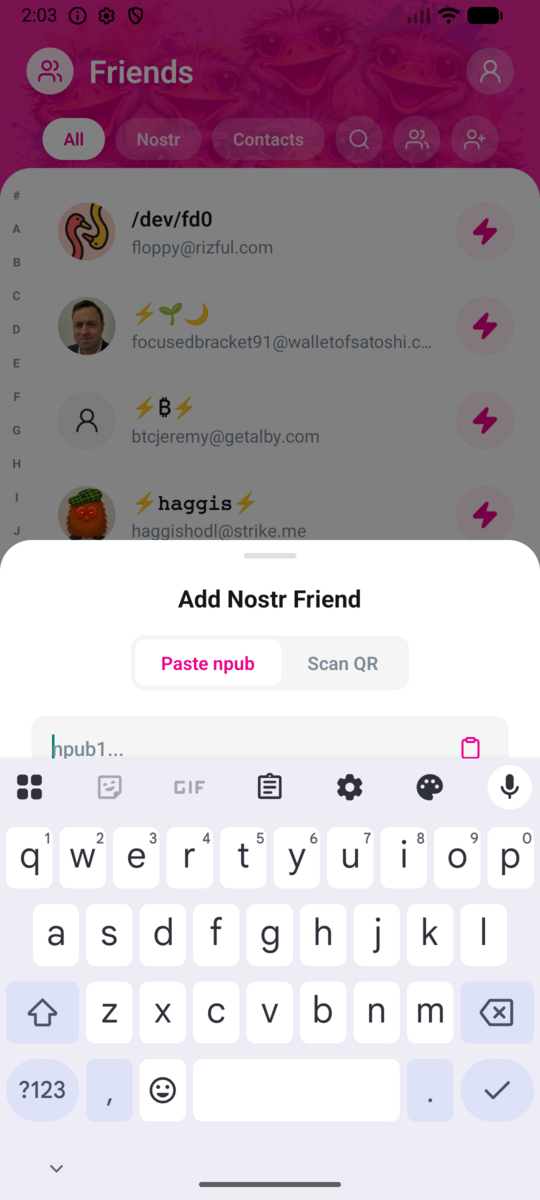
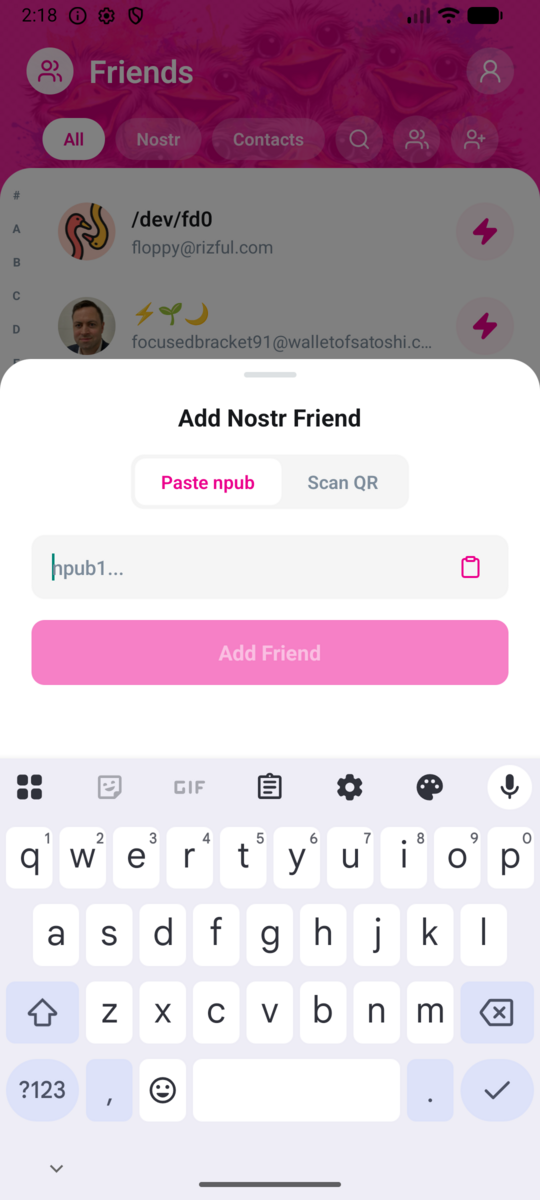
fix(ui): use canonical BottomSheetScrollView + keyboardHeight pattern
Per standing project rule (no hardcoded snapPoints except FriendPicker
+ GifPicker), drop the snapPoints + enableDynamicSizing={false} hack
from the previous commit and apply the canonical pattern from
FeedbackSheet / SendSheet / NostrLoginSheet (rule 5 in
TROUBLESHOOTING.adoc):

- BottomSheetView → BottomSheetScrollView so the sheet can measure its
  intrinsic content height.
- Track Keyboard show/hide; pad contentContainerStyle with
  paddingBottom: keyboardHeight + 80 so the input + Save button clear
  Gboard.
- Drop flex: 1 on content (was collapsing dynamic sizing to 0).
- enableDynamicSizing stays at the v5 default (true).

Updated the after-screenshots in docs/screenshots/sheet-collapse-fix/
to match.

diff --git a/src/components/AddFriendSheet.tsx b/src/components/AddFriendSheet.tsx
@@ -6,13 +6,15 @@ import {
   StyleSheet,
   BackHandler,
   ActivityIndicator,
+  Keyboard,
+  Platform,
 } from 'react-native';
 import { Alert } from './BrandedAlert';
 import {
   BottomSheetModal,
   BottomSheetBackdrop,
   BottomSheetBackdropProps,
-  BottomSheetView,
+  BottomSheetScrollView,
   BottomSheetTextInput,
 } from '@gorhom/bottom-sheet';
 import { CameraView, useCameraPermissions } from 'expo-camera';
@@ -31,16 +33,26 @@ const AddFriendSheet: React.FC<Props> = ({ visible, onClose, onAdd }) => {
   const colors = useThemeColors();
   const styles = useMemo(() => createStyles(colors), [colors]);
   const sheetRef = useRef<BottomSheetModal>(null);
-  // Fixed snap + enableDynamicSizing={false} together avoid the v5 #1602
-  // collapse where focusing the npub input shrinks the sheet to 0 and
-  // hides everything but the IME. See TROUBLESHOOTING.adoc.
-  const snapPoints = useMemo(() => ['55%'], []);
   const [mode, setMode] = useState<'paste' | 'scan'>('paste');
   const [inputValue, setInputValue] = useState('');
   const [loading, setLoading] = useState(false);
   const [permission, requestPermission] = useCameraPermissions();
   const [scanned, setScanned] = useState(false);
   const [scanError, setScanError] = useState<string | null>(null);
+  const [keyboardHeight, setKeyboardHeight] = useState(0);
+
+  useEffect(() => {
+    const showEvent = Platform.OS === 'ios' ? 'keyboardWillShow' : 'keyboardDidShow';
+    const hideEvent = Platform.OS === 'ios' ? 'keyboardWillHide' : 'keyboardDidHide';
+    const showSub = Keyboard.addListener(showEvent, (e) => {
+      setKeyboardHeight(e.endCoordinates.height);
+    });
+    const hideSub = Keyboard.addListener(hideEvent, () => setKeyboardHeight(0));
+    return () => {
+      showSub.remove();
+      hideSub.remove();
+    };
+  }, []);
 
   useEffect(() => {
     if (visible) {
@@ -111,8 +123,6 @@ const AddFriendSheet: React.FC<Props> = ({ visible, onClose, onAdd }) => {
   return (
     <BottomSheetModal
       ref={sheetRef}
-      snapPoints={snapPoints}
-      enableDynamicSizing={false}
       onDismiss={onClose}
       backdropComponent={renderBackdrop}
       backgroundStyle={styles.sheetBackground}
@@ -121,7 +131,13 @@ const AddFriendSheet: React.FC<Props> = ({ visible, onClose, onAdd }) => {
       keyboardBlurBehavior="restore"
       android_keyboardInputMode="adjustResize"
     >
-      <BottomSheetView style={styles.content}>
+      <BottomSheetScrollView
+        contentContainerStyle={[
+          styles.content,
+          { paddingBottom: keyboardHeight > 0 ? keyboardHeight + 80 : 40 },
+        ]}
+        keyboardShouldPersistTaps="handled"
+      >
         <Text style={styles.title}>Add Nostr Friend</Text>
 
         {/* Mode toggle */}
@@ -223,7 +239,7 @@ const AddFriendSheet: React.FC<Props> = ({ visible, onClose, onAdd }) => {
             )}
           </View>
         )}
-      </BottomSheetView>
+      </BottomSheetScrollView>
     </BottomSheetModal>
   );
 };
@@ -240,7 +256,6 @@ const createStyles = (colors: Palette) =>
       width: 40,
     },
     content: {
-      flex: 1,
       alignItems: 'center',
       paddingHorizontal: 24,
       paddingTop: 8,

diff --git a/src/components/RenameGroupSheet.tsx b/src/components/RenameGroupSheet.tsx
@@ -6,12 +6,14 @@ import {
   ActivityIndicator,
   BackHandler,
   Alert,
+  Keyboard,
+  Platform,
 } from 'react-native';
 import {
   BottomSheetModal,
   BottomSheetBackdrop,
   BottomSheetBackdropProps,
-  BottomSheetView,
+  BottomSheetScrollView,
   BottomSheetTextInput,
 } from '@gorhom/bottom-sheet';
 import { useThemeColors } from '../contexts/ThemeContext';
@@ -32,9 +34,23 @@ const RenameGroupSheet: React.FC<Props> = ({ visible, groupId, onClose }) => {
   const [name, setName] = useState('');
   const [saving, setSaving] = useState(false);
   const sheetRef = useRef<BottomSheetModal>(null);
-  // 70% to keep the input + Save button above Gboard (IME ≈50% of
-  // screen on most Android phones); 40% put both behind the keyboard.
-  const snapPoints = useMemo(() => ['70%'], []);
+  const [keyboardHeight, setKeyboardHeight] = useState(0);
+
+  // Canonical keyboard-height tracking — mirrors FeedbackSheet /
+  // SendSheet / NostrLoginSheet. Rule 5 of the "Bottom sheet doesn't
+  // slide up when keyboard opens" checklist in TROUBLESHOOTING.adoc.
+  useEffect(() => {
+    const showEvent = Platform.OS === 'ios' ? 'keyboardWillShow' : 'keyboardDidShow';
+    const hideEvent = Platform.OS === 'ios' ? 'keyboardWillHide' : 'keyboardDidHide';
+    const showSub = Keyboard.addListener(showEvent, (e) => {
+      setKeyboardHeight(e.endCoordinates.height);
+    });
+    const hideSub = Keyboard.addListener(hideEvent, () => setKeyboardHeight(0));
+    return () => {
+      showSub.remove();
+      hideSub.remove();
+    };
+  }, []);
 
   useEffect(() => {
     if (visible) {
@@ -98,8 +114,6 @@ const RenameGroupSheet: React.FC<Props> = ({ visible, groupId, onClose }) => {
   return (
     <BottomSheetModal
       ref={sheetRef}
-      snapPoints={snapPoints}
-      enableDynamicSizing={false}
       onDismiss={onClose}
       backdropComponent={renderBackdrop}
       backgroundStyle={styles.sheetBackground}
@@ -108,7 +122,13 @@ const RenameGroupSheet: React.FC<Props> = ({ visible, groupId, onClose }) => {
       keyboardBlurBehavior="restore"
       android_keyboardInputMode="adjustResize"
     >
-      <BottomSheetView style={styles.content}>
+      <BottomSheetScrollView
+        contentContainerStyle={[
+          styles.content,
+          { paddingBottom: keyboardHeight > 0 ? keyboardHeight + 80 : 40 },
+        ]}
+        keyboardShouldPersistTaps="handled"
+      >
         <Text style={styles.title}>Rename Group</Text>
         <Text style={styles.label}>Group Name</Text>
         <BottomSheetTextInput
@@ -137,7 +157,7 @@ const RenameGroupSheet: React.FC<Props> = ({ visible, groupId, onClose }) => {
             <Text style={styles.saveButtonText}>Save</Text>
           )}
         </TouchableOpacity>
-      </BottomSheetView>
+      </BottomSheetScrollView>
     </BottomSheetModal>
   );
 };
@@ -154,7 +174,6 @@ const createStyles = (colors: Palette) =>
       width: 40,
     },
     content: {
-      flex: 1,
       paddingHorizontal: 24,
       paddingTop: 8,
       paddingBottom: 40,
